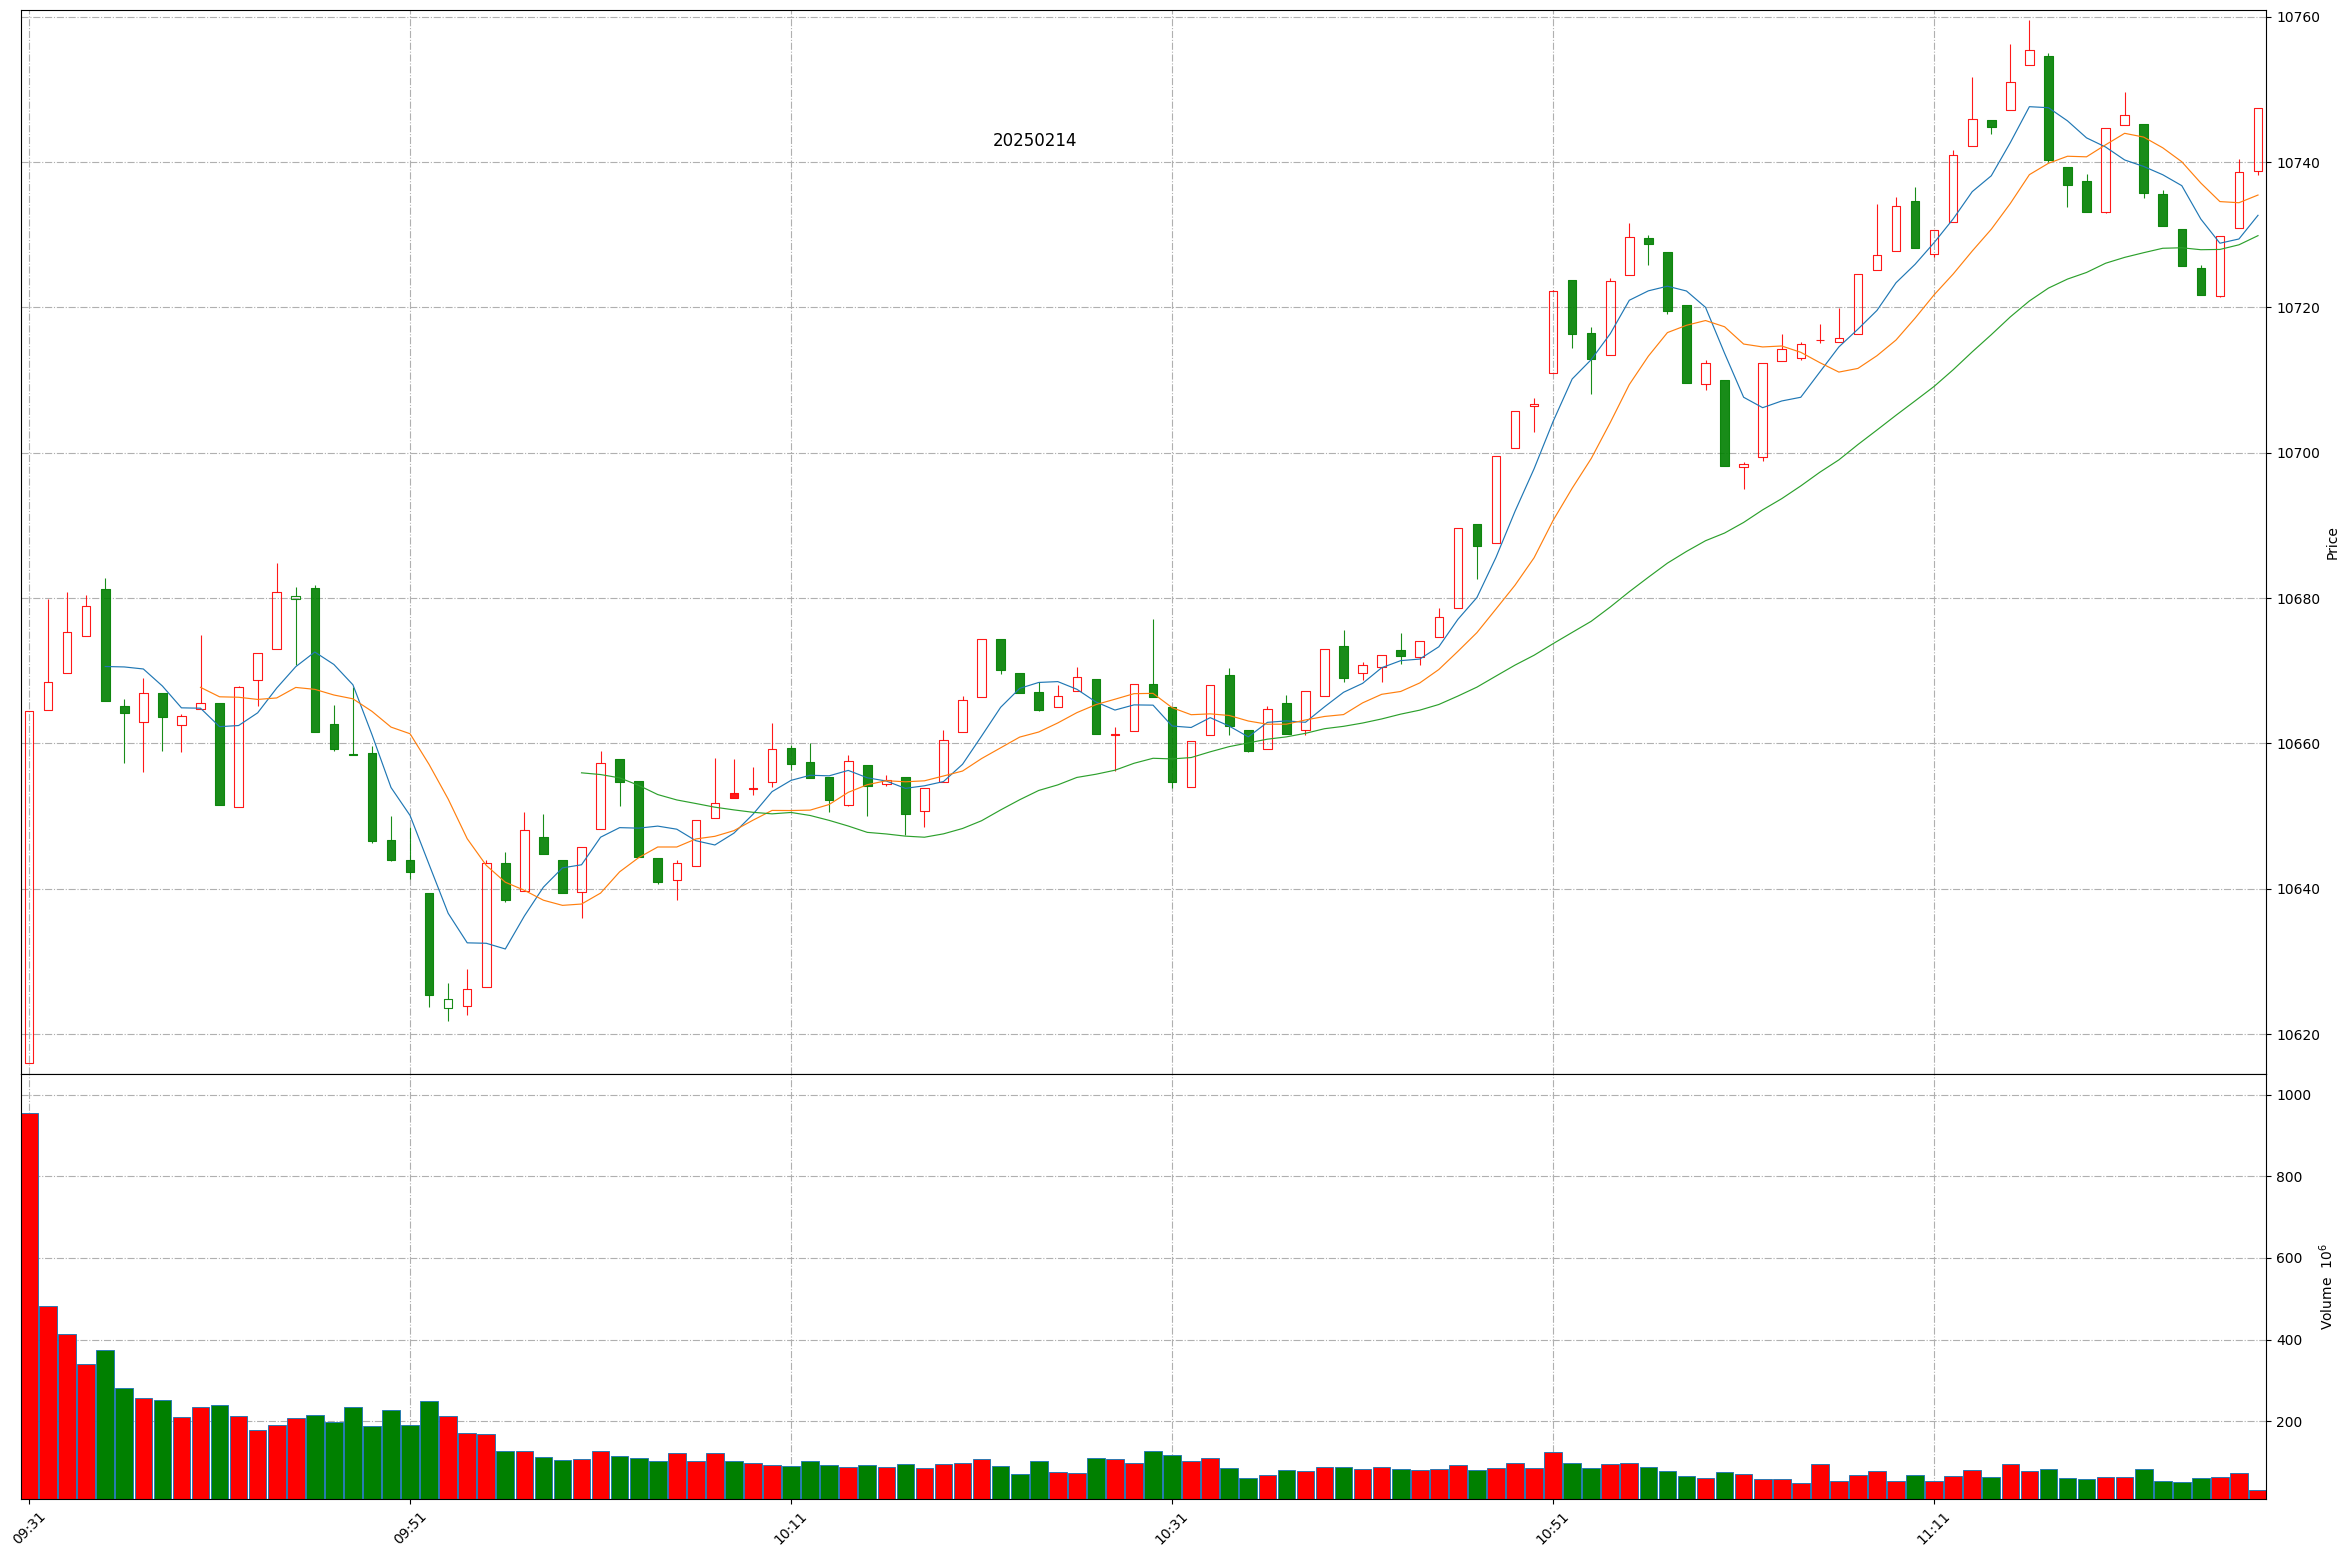
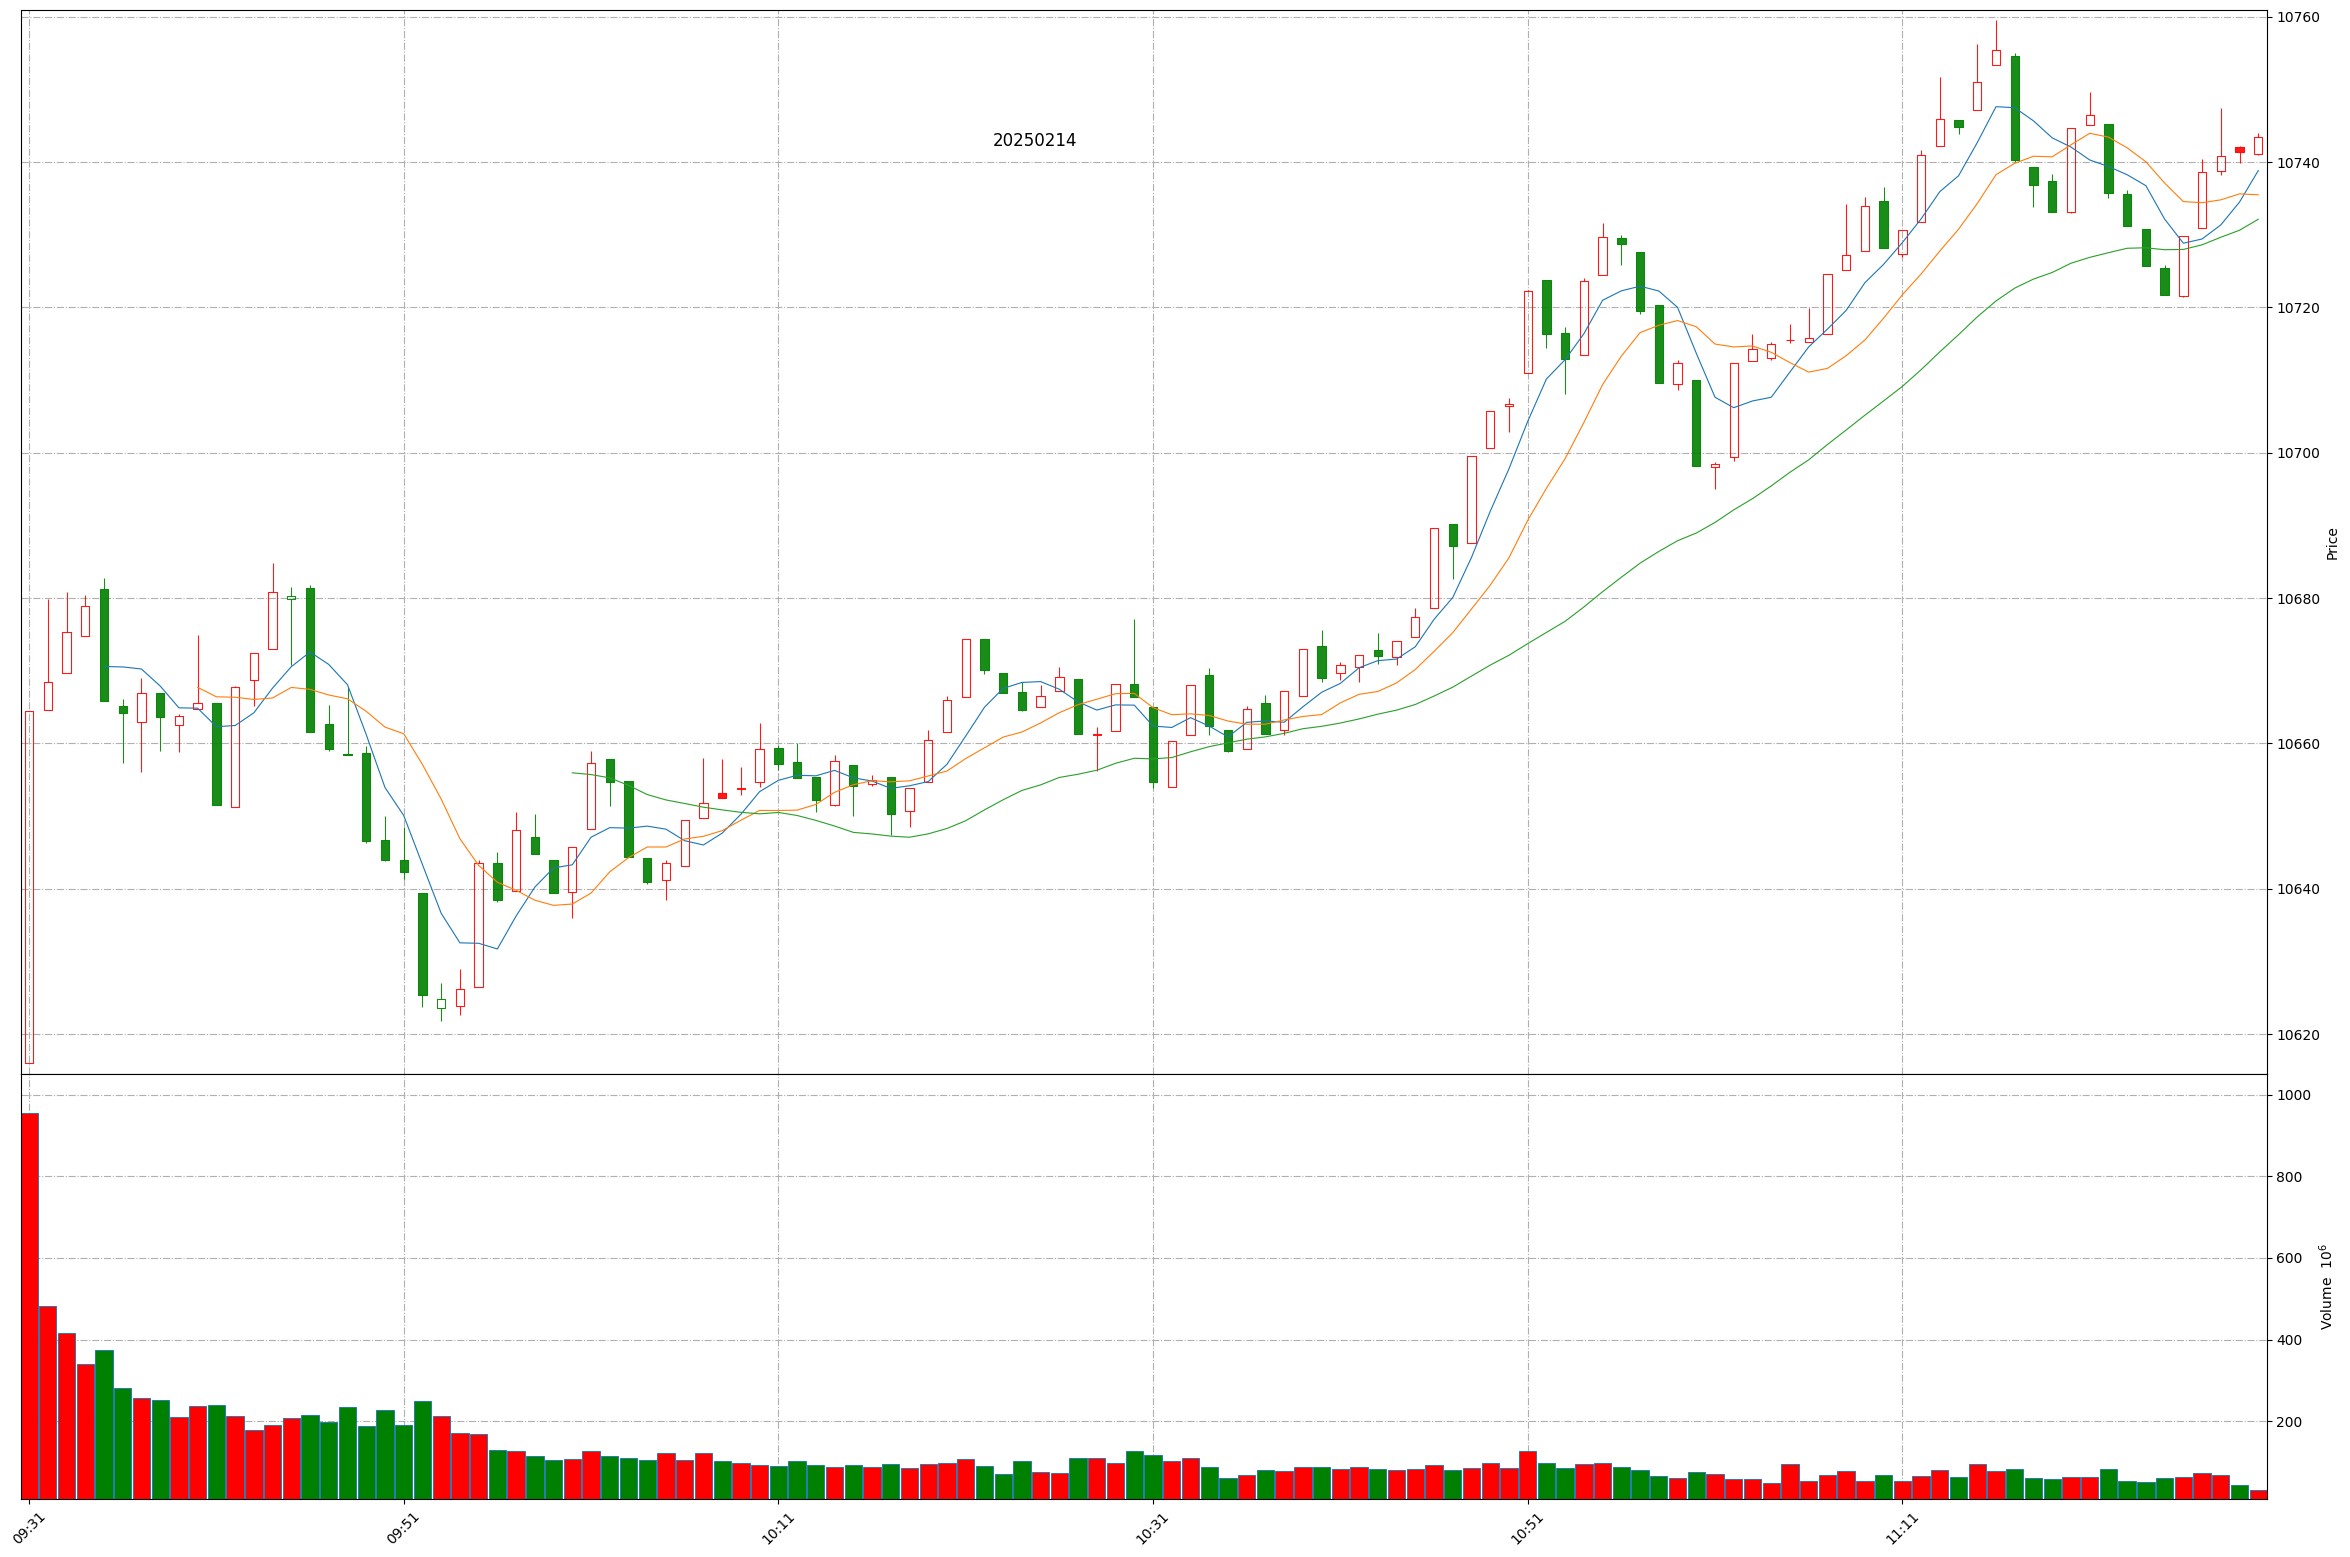
Github action update at 2025-02-14 11:29:47.

diff --git a/README.md b/README.md
@@ -1,11 +1,11 @@
 
 # Daily-A-share-market-quotes 每日 A 股指数（5min 更新）- 20250214
 
-### 上证指数 20250214 11:27
+### 上证指数 20250214 11:29
 ![](./fig/2025/2/20250214-sh000001.png)
 
-### 深证成指 20250214 11:27
+### 深证成指 20250214 11:29
 ![](./fig/2025/2/20250214-sz399001.png)
 
-### 北证50 20250214 11:27
+### 北证50 20250214 11:29
 ![](./fig/2025/2/20250214-bj899050.png)
